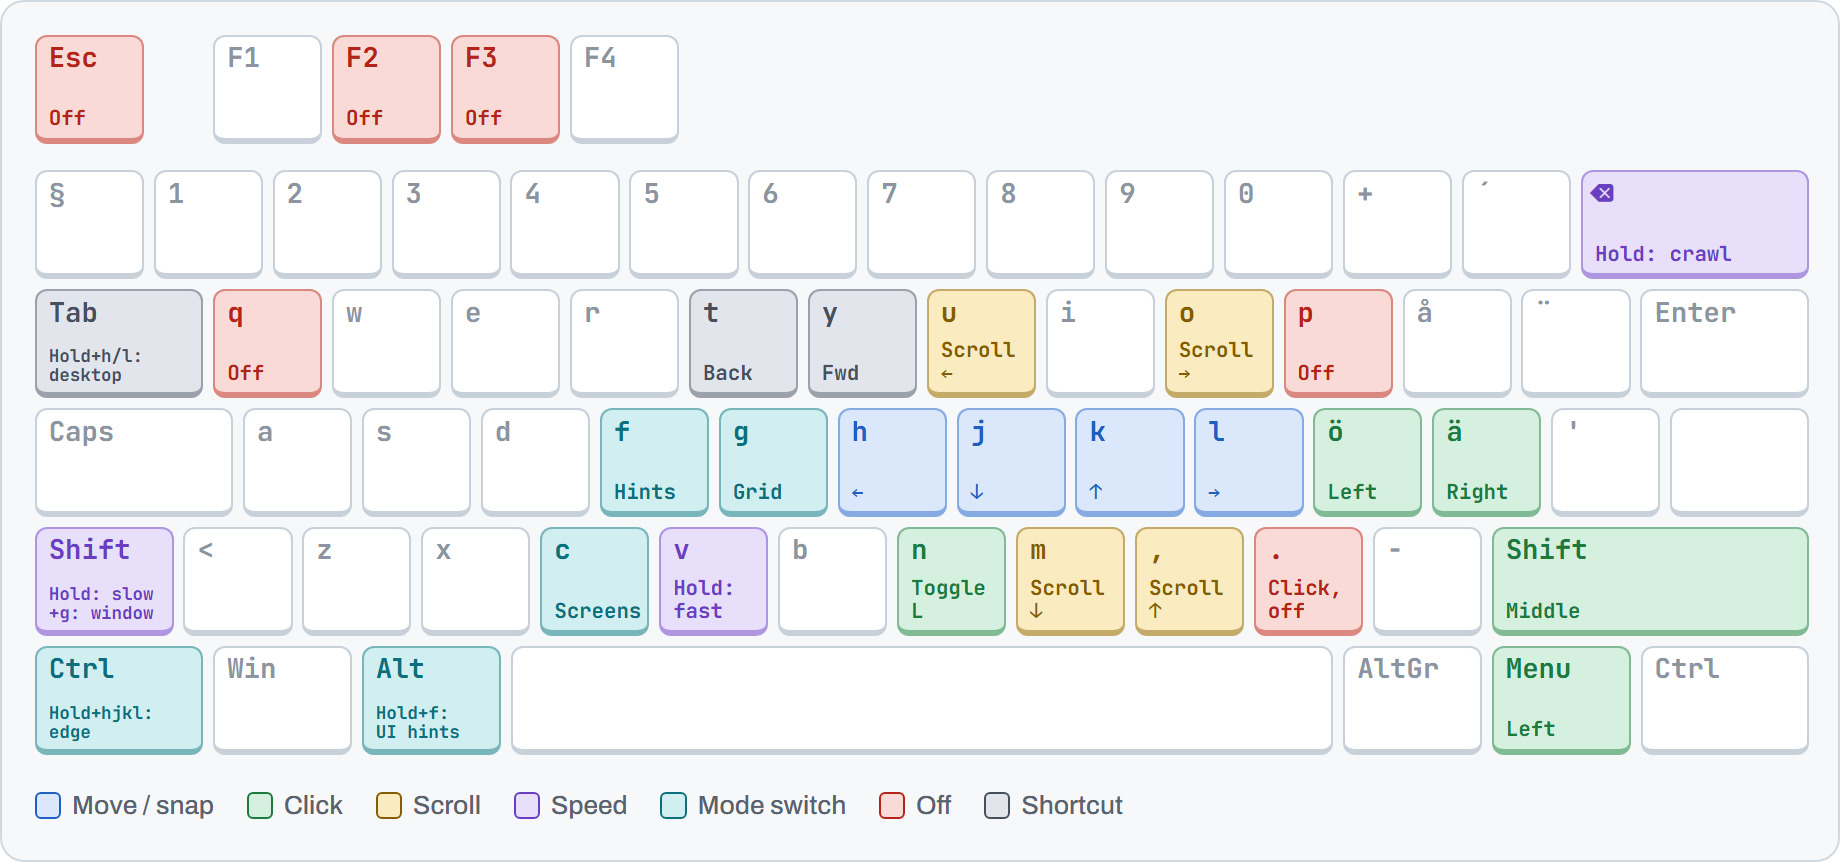
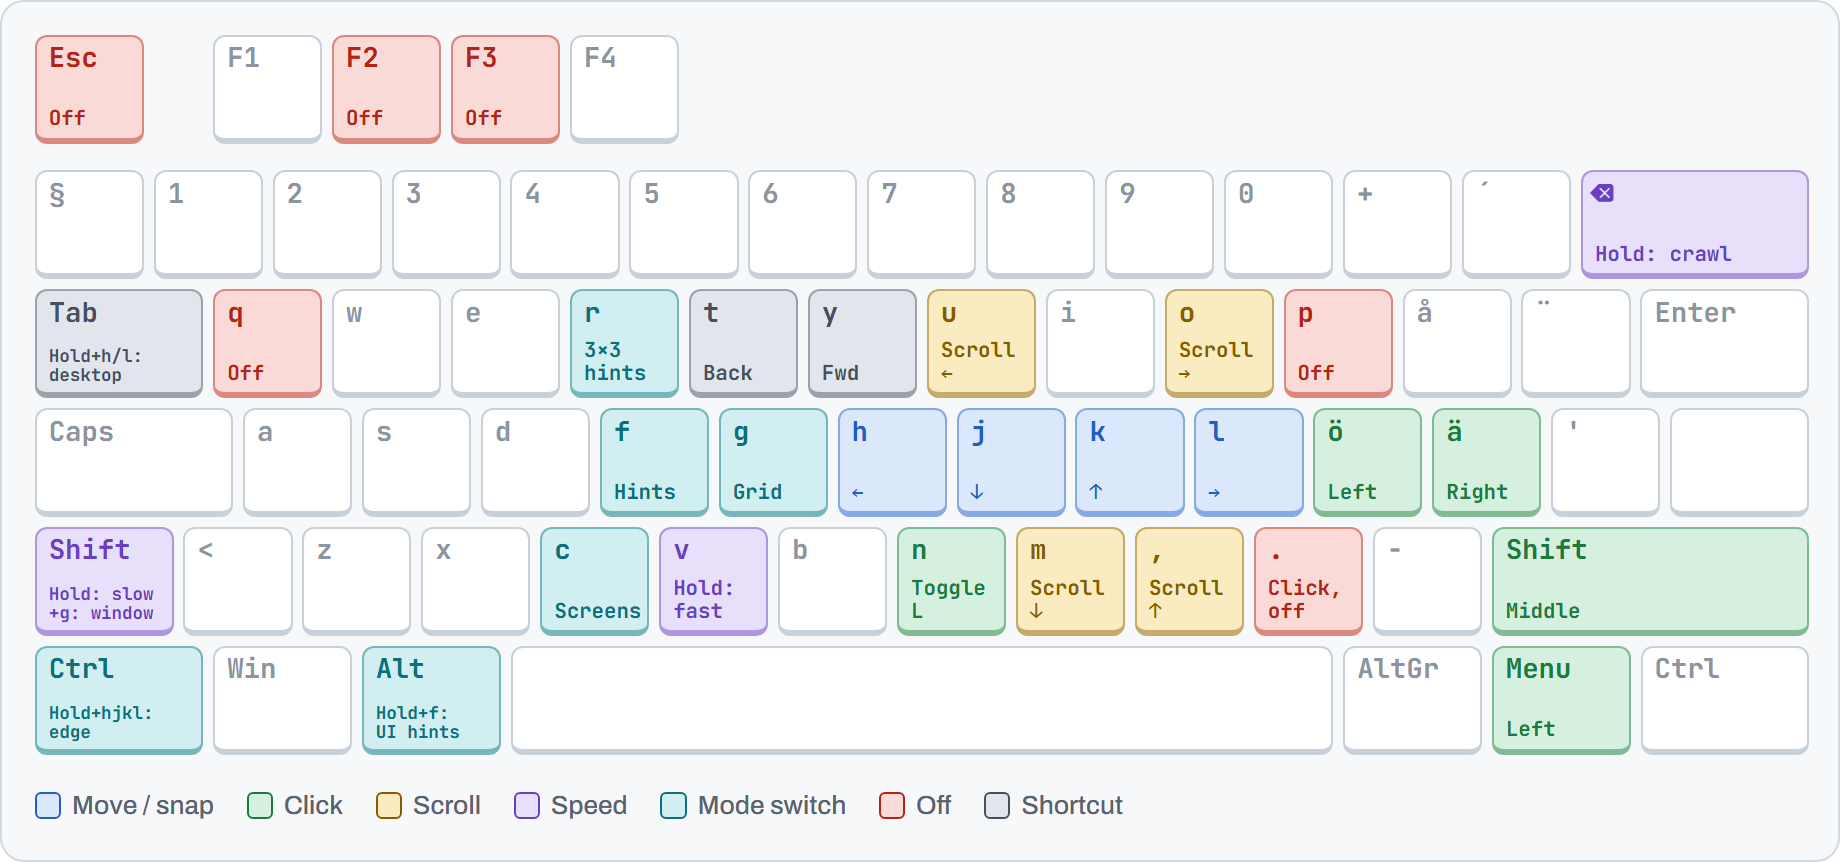
Add recursive hints on r
r opens a 3x3 grid on u i o / j k l / m , . that narrows to the chosen
ninth, up to five levels, with the pointer following the grid's centre.
Backspace goes up a level, space restarts at the full screen, esc stops
and q or p turn mousemaster off. Adapted from neo-mousekeys v94 without
its backtick mouse-follow toggle.

Labels use JetBrains Mono like the grid hints, yellow on the first two
levels and readable down to level 4. The next level's keys show as dim
previews in each cell.

The README and the keyboard images include the new mode.

Changed region(s): [[0.3098, 0.3318, 0.3717, 0.4826]]

diff --git a/images/keyboard.html b/images/keyboard.html
@@ -303,6 +303,7 @@
                     g: ["mode", "Grid"],
                     f: ["mode", "Hints"],
                     c: ["mode", "Screens"],
+                    r: ["mode", "3×3 hints"],
                     lalt: ["mode", "Hold+f: UI hints"],
                     q: ["exit", "Off"],
                     p: ["exit", "Off"],
@@ -355,6 +356,28 @@
                     ...hintKeys(HINT1),
                     esc: ["mode", "Back"],
                     bksp: ["mode", "Back"],
+                },
+                // Each grid key is labelled with the ninth of the grid it picks.
+                recursive: {
+                    u: ["hint", "↖"],
+                    i: ["hint", "↑"],
+                    o: ["hint", "↗"],
+                    j: ["hint", "←"],
+                    k: ["hint", "Center"],
+                    l: ["hint", "→"],
+                    m: ["hint", "↙"],
+                    ",": ["hint", "↓"],
+                    ".": ["hint", "↘"],
+                    ö: ["click", "Left"],
+                    menu: ["click", "Left"],
+                    ä: ["click", "Right"],
+                    rshift: ["click", "Middle"],
+                    n: ["click", "Toggle L"],
+                    bksp: ["mode", "Up a level"],
+                    space: ["mode", "Restart at full screen"],
+                    esc: ["mode", "Done"],
+                    q: ["exit", "Off"],
+                    p: ["exit", "Off"],
                 },
             };
 

diff --git a/README.md b/README.md
@@ -47,6 +47,9 @@ Indicator next to the pointer: 🔴 on · 🟡 scrolling · 🟢 button held.
 <details><summary>UI hints keyboard</summary>
 <picture><source media="(prefers-color-scheme: dark)" srcset="images/ui-dark.png"><img alt="UI hint mode keys" src="images/ui-light.png"></picture>
 </details>
+<details><summary>Recursive hints keyboard</summary>
+<picture><source media="(prefers-color-scheme: dark)" srcset="images/recursive-dark.png"><img alt="Recursive hint mode keys" src="images/recursive-light.png"></picture>
+</details>
 <details><summary>Off keyboard</summary>
 <picture><source media="(prefers-color-scheme: dark)" srcset="images/off-dark.png"><img alt="Keys that work while mousemaster is off" src="images/off-light.png"></picture>
 </details>
@@ -82,9 +85,11 @@ Arrow keys do the same as <kbd>h</kbd> <kbd>j</kbd> <kbd>k</kbd> <kbd>l</kbd> fo
 | **Fine hints** | <kbd>Shift</kbd> + last hint letter | smaller grid around that spot, zoomed 5× | pick a hint · <kbd>Esc</kbd> back · <kbd>⌫</kbd> to hints |
 | **Screens** | <kbd>c</kbd> | <kbd>j</kbd> <kbd>k</kbd> <kbd>l</kbd> <kbd>ö</kbd> <kbd>a</kbd> <kbd>s</kbd> … jump to that monitor | <kbd>c</kbd> <kbd>Esc</kbd> <kbd>⌫</kbd> back · <kbd>q</kbd> <kbd>p</kbd> off |
 | **UI hints** | <kbd>Alt</kbd>+<kbd>f</kbd>, or <kbd>Ctrl</kbd>+<kbd>Alt</kbd>+<kbd>⌫</kbd> from off | type a label on a button or link to jump to it | pick a hint · <kbd>Esc</kbd> <kbd>⌫</kbd> back |
+| **Recursive hints** | <kbd>r</kbd> | <kbd>u</kbd><kbd>i</kbd><kbd>o</kbd> <kbd>j</kbd><kbd>k</kbd><kbd>l</kbd> <kbd>m</kbd><kbd>,</kbd><kbd>.</kbd> narrow to that ninth of the grid, up to 5 levels · <kbd>⌫</kbd> up a level · <kbd>Space</kbd> full screen · <kbd>ö</kbd> <kbd>ä</kbd> click | <kbd>Esc</kbd> back · <kbd>q</kbd> <kbd>p</kbd> off |
 
 - **Edge** snaps to an invisible box 80% wide and 95% tall in the middle of the screen, not the outermost pixel. Click keys still work, so Ctrl-click is available here.
 - **Window** puts its top edge 15 px into the window, on the title bar, so you can grab it and drag.
+- **Recursive hints** move the pointer to the centre of the grid after each key. Grey letters in each cell preview the next level's keys. The fifth level's cells are too small for labels, but the same keys still pick the same ninths.
 
 ## Tuning
 
@@ -95,7 +100,7 @@ Arrow keys do the same as <kbd>h</kbd> <kbd>j</kbd> <kbd>k</kbd> <kbd>l</kbd> fo
 | Normal | | 2 200 | 800 | 2 000 |
 | Fast | <kbd>v</kbd> | 4 500 | 3 000 | 10 000 |
 
-The pointer starts at 0 and accelerates. Scrolling starts at 1 500. While mousemaster is on, Shift, v and ⌫ don't reach the app, so holding them for speed types nothing and doesn't turn a vertical scroll sideways. With Shift held, <kbd>f</kbd>, <kbd>c</kbd>, <kbd>t</kbd> and <kbd>y</kbd> do nothing.
+The pointer starts at 0 and accelerates. Scrolling starts at 1 500. While mousemaster is on, Shift, v and ⌫ don't reach the app, so holding them for speed types nothing and doesn't turn a vertical scroll sideways. With Shift held, <kbd>f</kbd>, <kbd>c</kbd>, <kbd>r</kbd>, <kbd>t</kbd> and <kbd>y</kbd> do nothing.
 
 | Screen | Hint cell (px) | Hint layout (rows × columns) | Fine hint cell (px) | Fine hint max (rows × columns) |
 |---|--:|--:|--:|--:|
